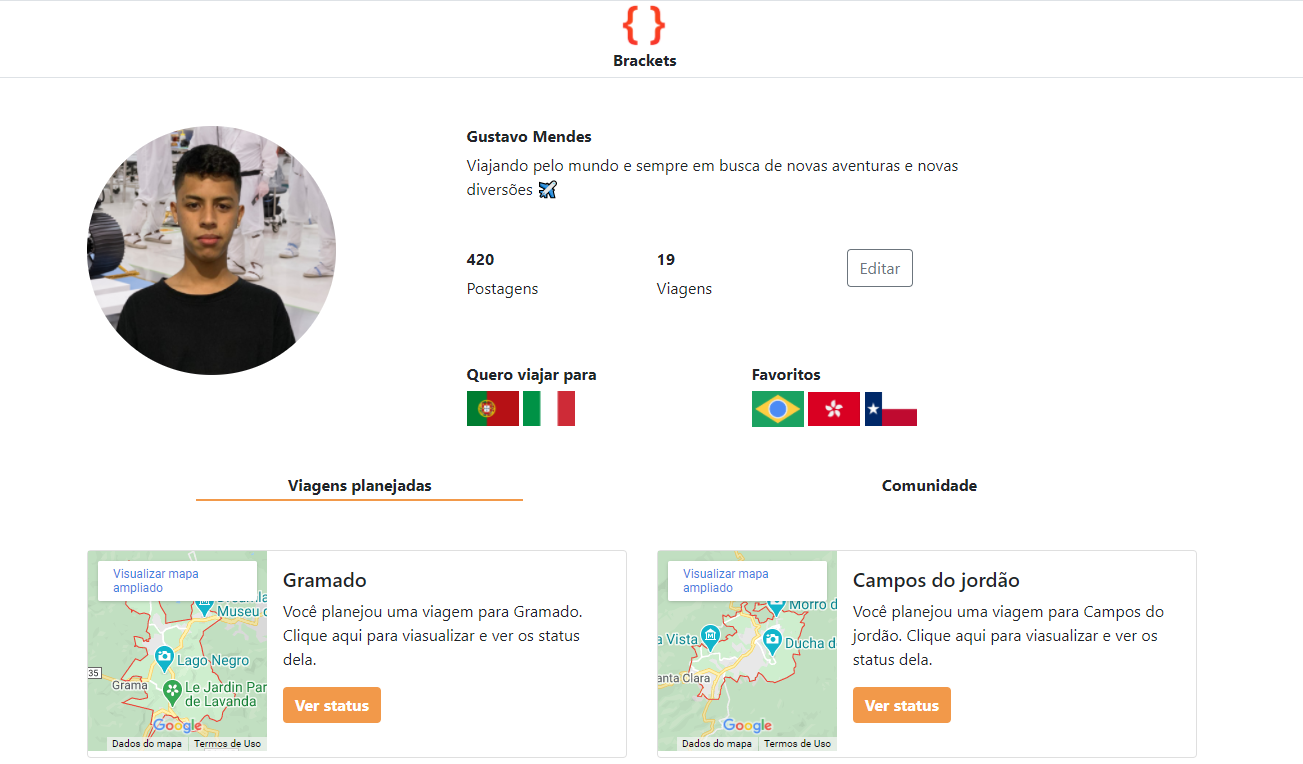
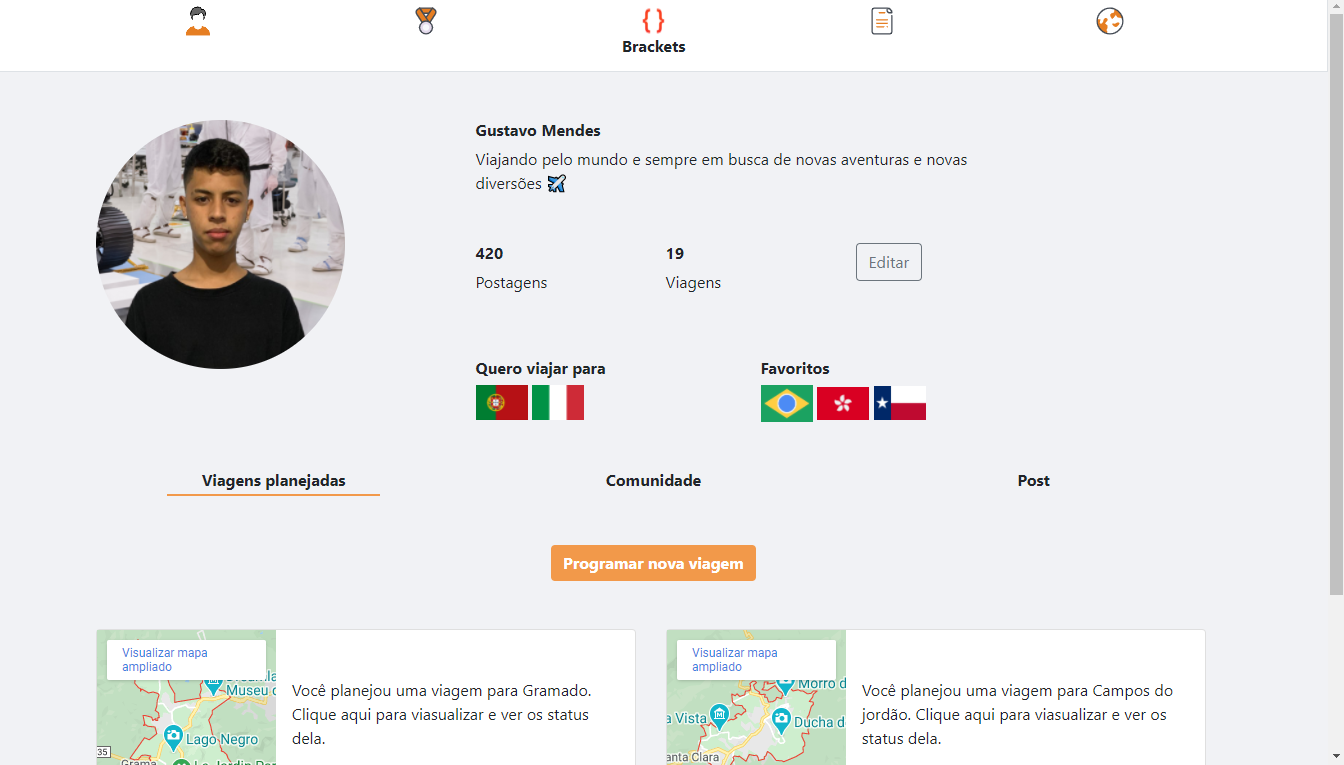
� Ajustando ReadMe

diff --git a/components/profile.html b/components/profile.html
@@ -250,6 +250,10 @@
                 <div class="col text-center">
                     <h6 > Comunidade</h6>
                 </div>
+
+                <div class="col text-center">
+                    <h6> Post</h6>
+                </div>
             </div>
         </div>
 

diff --git a/README.md b/README.md
@@ -16,11 +16,22 @@ A <strong>Brackets</strong> vem com uma proposta de ajudar voçê a ter a sua vi
 - Plano de viagem completo;
 - Network com a comunidade;
 - Perfil com histórico;
+- Ranking de Influencers;
 
 ---
 
-<h1 align="center">
+<h1 align="left" width="50%">
   <img src="./img/Profile-img.png">
+</h1>
+
+<h1 align="right" width="50%">
+      <img src="./img/feed.png">
+</h1>
+
+Seja ativo na plataforma e concorra a prêmios incriveis
+
+<h1 align="center">
+      <img src="./img/ranking.png">
 </h1>
 
 ## Contribuidores
